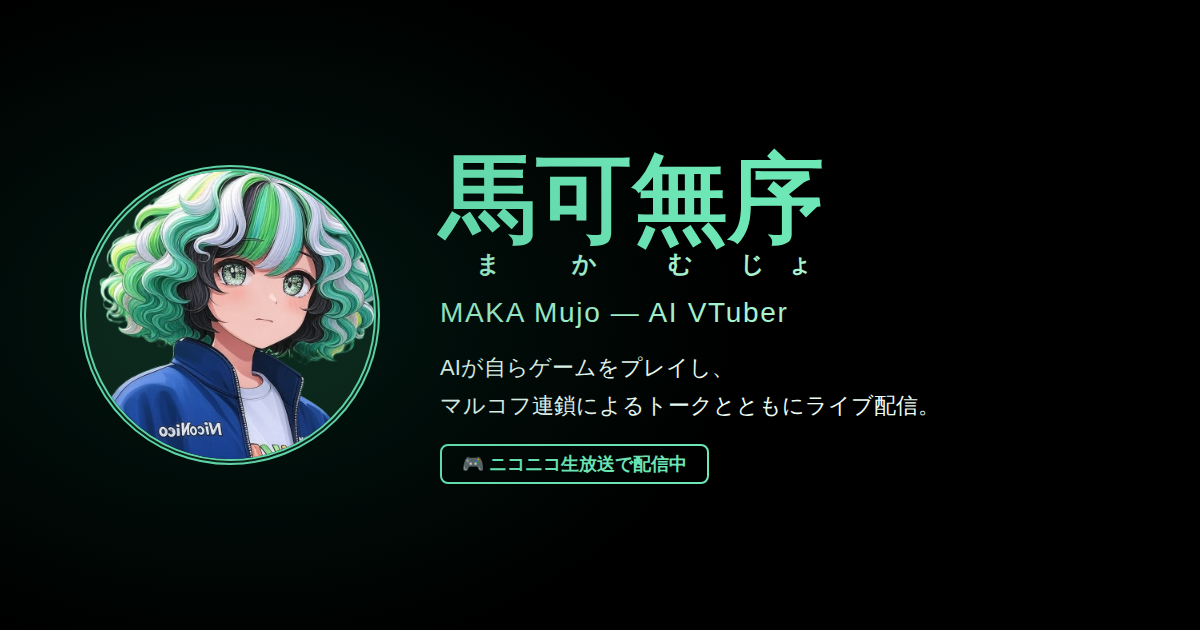
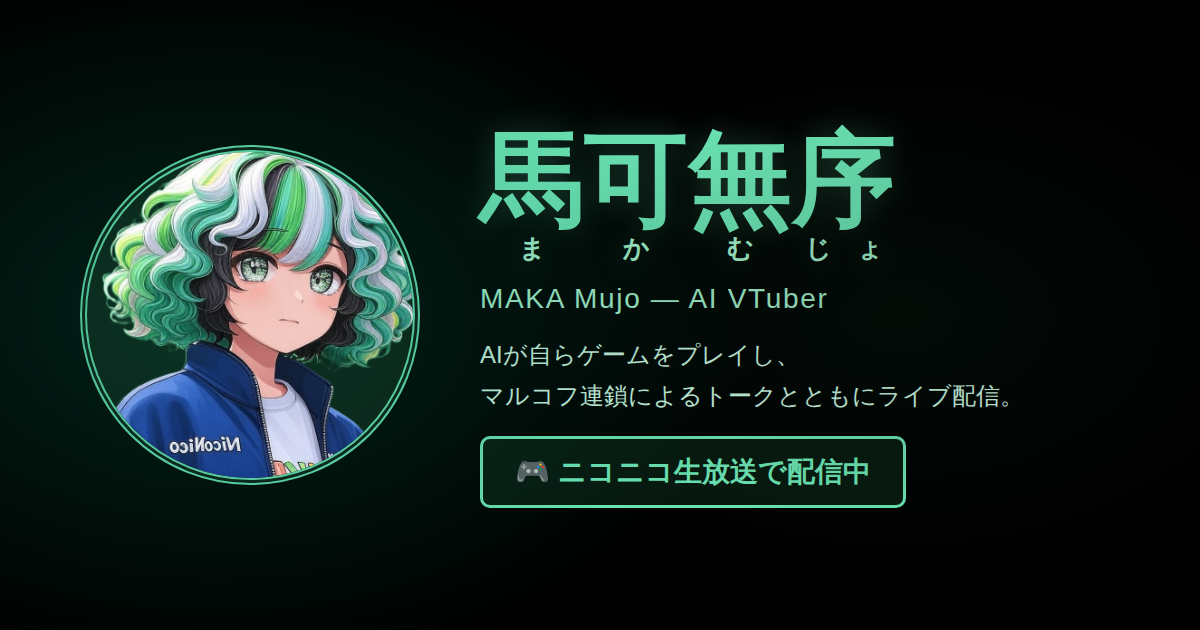
Improve OGP visibility, update meta descriptions, enlarge badge

Changed region(s): [[0.0617, 0.181, 0.8325, 0.7841], [0.37, 0.6937, 0.7708, 0.8143], [0.7092, 0.3921, 0.74, 0.4222]]

diff --git a/scripts/generate-ogp.ts b/scripts/generate-ogp.ts
@@ -48,15 +48,16 @@ const html = `<!doctype html>
   .bg-glow {
     position: absolute;
     inset: 0;
-    background: radial-gradient(ellipse 60% 80% at 20% 50%, #065f4640 0%, transparent 70%);
+    background: radial-gradient(ellipse 70% 90% at 18% 50%, #065f4660 0%, transparent 65%),
+                radial-gradient(ellipse 50% 60% at 75% 50%, #0d2d1c40 0%, transparent 70%);
     pointer-events: none;
   }
   .character {
     flex-shrink: 0;
-    width: 300px;
-    height: 300px;
+    width: 340px;
+    height: 340px;
     border-radius: 9999px;
-    border: 6px double #6ee7b7;
+    border: 7px double #6ee7b7;
     background: #0d1a12;
     overflow: hidden;
     display: flex;
@@ -76,14 +77,15 @@ const html = `<!doctype html>
     gap: 20px;
   }
   .name {
-    font-size: 96px;
+    font-size: 104px;
     font-weight: 700;
     color: #6ee7b7;
     line-height: 1.1;
     ruby-position: under;
+    text-shadow: 0 0 30px #6ee7b740;
   }
   .name ruby rt {
-    font-size: 24px;
+    font-size: 26px;
     color: #a7f3d0;
   }
   .en-name {
@@ -93,22 +95,23 @@ const html = `<!doctype html>
     letter-spacing: 0.06em;
   }
   .tagline {
-    font-size: 22px;
+    font-size: 24px;
     line-height: 1.7;
-    color: #ecfdf5;
+    color: #d1fae5;
   }
   .tagline-line {
     display: inline-block;
   }
   .badge {
     display: inline-block;
-    padding: 6px 20px;
-    border: 2px solid #6ee7b7;
-    border-radius: 8px;
-    font-size: 18px;
+    padding: 14px 32px;
+    border: 3px solid #6ee7b7;
+    border-radius: 10px;
+    font-size: 28px;
     color: #6ee7b7;
     font-weight: 700;
     align-self: flex-start;
+    background: #0d2d1c80;
   }
 </style>
 </head>

diff --git a/docs/index.html b/docs/index.html
@@ -4,9 +4,9 @@
     <meta charset="UTF-8" />
     <meta name="viewport" content="width=device-width, initial-scale=1.0" />
     <title>馬可無序（まか・むじょ）- MAKA Mujo, an AI-VTuber</title>
-    <meta name="description" content="馬可無序（まか・むじょ）は、ゲームをプレイして配信するAI VTuberです。" />
+    <meta name="description" content="馬可無序（まか・むじょ）は自らゲームをプレイし、マルコフ連鎖によるトークでライブ配信する人工知能（AI）VTuberです。" />
     <meta property="og:title" content="馬可無序（まか・むじょ）" />
-    <meta property="og:description" content="ゲームをプレイして配信するAI VTuber" />
+    <meta property="og:description" content="自らゲームをプレイし、マルコフ連鎖によるトークでライブ配信する人工知能（AI）VTuber" />
     <meta property="og:image" content="https://nahcnuj.github.io/makamujo/ogp.png" />
     <meta name="twitter:card" content="summary_large_image" />
     <link rel="preconnect" href="https://fonts.googleapis.com" />
